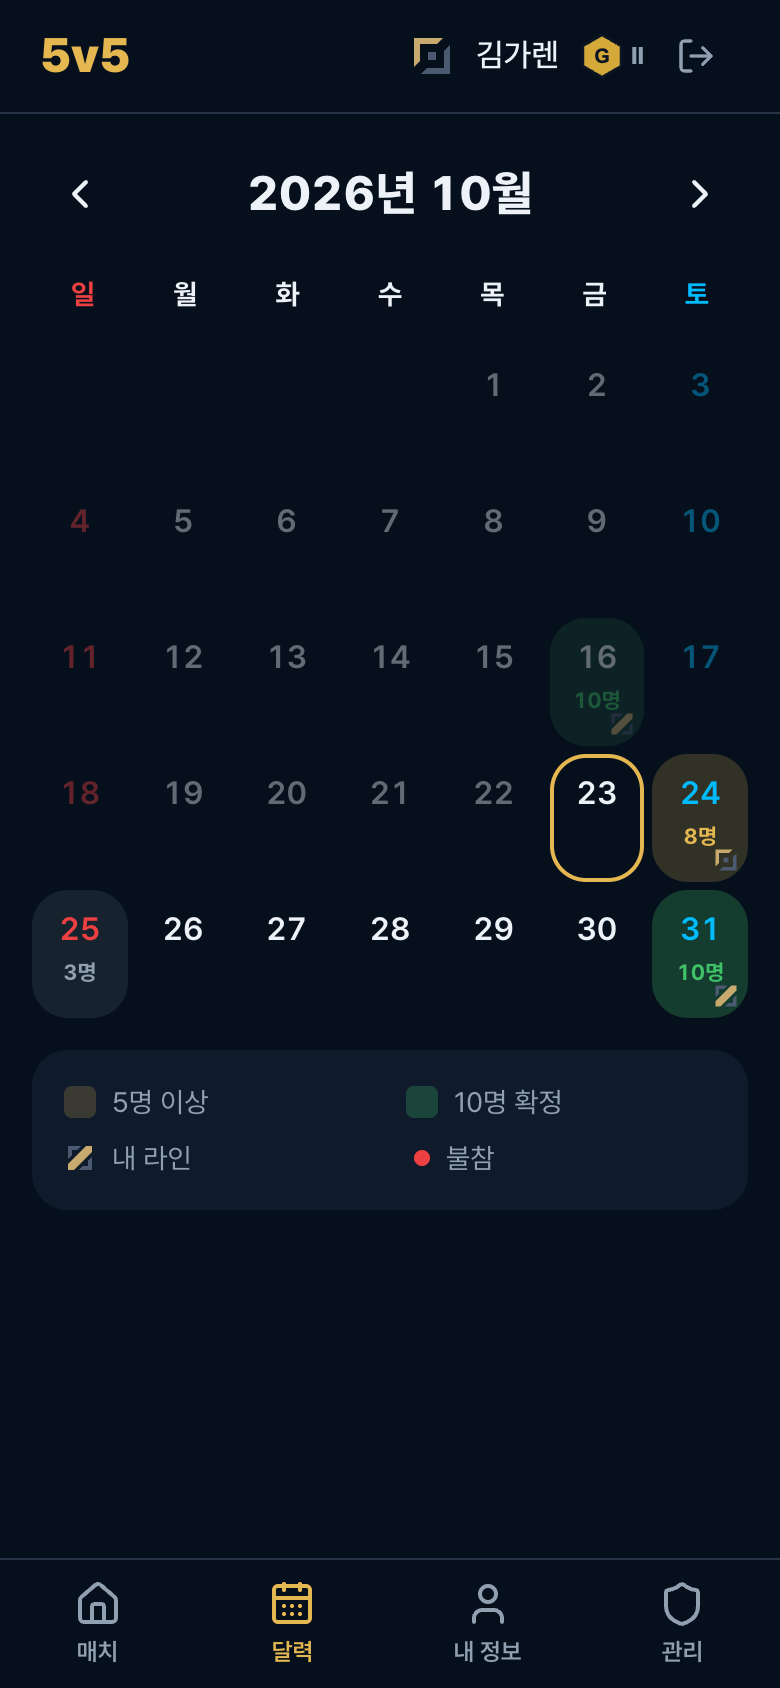
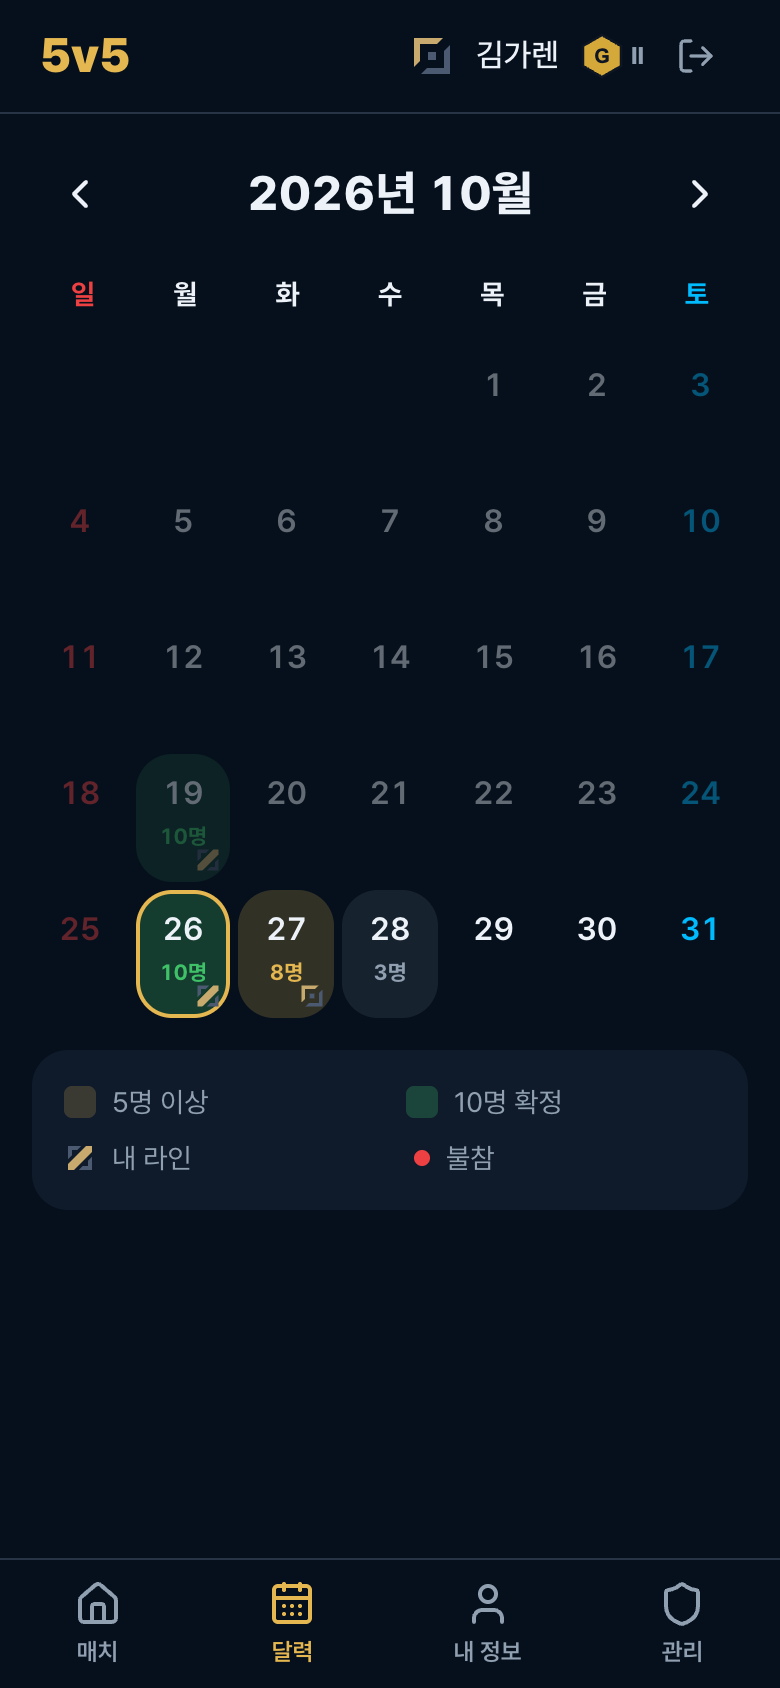
팀 표시를 블루/레드 → 1팀/2팀으로 변경, README 스크린샷 갱신
- 화면 표시만 변경 (DB 값은 blue = 1팀, red = 2팀 그대로)
- README 스크린샷에 매치 종료, 결과 투표/댓글 화면 추가

diff --git a/src/lib/repo/memory.ts b/src/lib/repo/memory.ts
@@ -94,7 +94,7 @@ function seed(): Store {
     { play_date: addDays(today, 1), match_format: "3판 2선승제", stake: "진 팀이 치킨 쏘기", updated_by: users[1].id, updated_at: now },
   ];
 
-  // 지난 매치 종료 처리: 라인별 첫 번째 = 블루, 두 번째 = 레드, 블루 승
+  // 지난 매치 종료 처리: 라인별 첫 번째 = 1팀(blue), 두 번째 = 2팀(red), 1팀 승
   const lastWeek = addDays(today, -7);
   const results: MatchResultRow[] = [{ play_date: lastWeek, winner: "blue", finished_by: users[0].id }];
   const players: PlayerRow[] = ten.map(([i], n) => ({
@@ -102,9 +102,9 @@ function seed(): Store {
     user_id: users[i].id,
     team: n % 2 === 0 ? "blue" : "red",
   }));
-  // 블루(승) = 서말파·조리신·박아리·이징크스·최쓰레쉬 / 레드(패) = 정다리우스·한니달리·김가렌·윤이즈·강룰루
+  // 1팀(승) = 서말파·조리신·박아리·이징크스·최쓰레쉬 / 2팀(패) = 정다리우스·한니달리·김가렌·윤이즈·강룰루
 
-  // 지난 매치 투표 (MVP 는 블루에서, 범인은 레드에서)
+  // 지난 매치 투표 (MVP 는 1팀에서, 범인은 2팀에서)
   const vote = (voter: number, kind: VoteKind, target: number): VoteRow => ({
     play_date: addDays(today, -7),
     voter_id: users[voter].id,

diff --git a/src/app/actions/results.ts b/src/app/actions/results.ts
@@ -53,7 +53,7 @@ export async function finishMatch(input: {
   const blue = players.filter((p) => p.team === "blue").length;
   const red = players.filter((p) => p.team === "red").length;
   if (blue !== TEAM_SIZE || red !== TEAM_SIZE) {
-    return { ok: false, error: `블루 ${TEAM_SIZE}명, 레드 ${TEAM_SIZE}명을 정해 주세요. (지금 ${blue}:${red})` };
+    return { ok: false, error: `1팀 ${TEAM_SIZE}명, 2팀 ${TEAM_SIZE}명을 정해 주세요. (지금 ${blue}:${red})` };
   }
 
   await repo.finishMatch({ play_date: input.date, winner: input.winner, finished_by: me.id, players });

diff --git a/src/lib/constants.ts b/src/lib/constants.ts
@@ -64,7 +64,8 @@ export const VOTE_LABEL = { mvp: "MVP", blame: "범인" } as const;
 export const MAX_COMMENT_LENGTH = 300;
 /** 관리자가 만든 계정/초기화한 PIN. 첫 로그인 때 재설정해야 하고, 새 PIN 으로는 쓸 수 없다 */
 export const INITIAL_PIN = "0000";
-export const TEAM_LABEL = { blue: "블루", red: "레드" } as const;
+/** DB 값은 blue/red 로 저장하고, 화면에는 1팀/2팀으로 표시한다 */
+export const TEAM_LABEL = { blue: "1팀", red: "2팀" } as const;
 /** 매치당 스크린샷 최대 개수 */
 export const MAX_SCREENSHOTS = 10;
 

diff --git a/src/components/match/finish-sheet.tsx b/src/components/match/finish-sheet.tsx
@@ -26,7 +26,7 @@ export const TEAM_STYLE: Record<Team, { on: string; text: string }> = {
   red: { on: "border-rose-400 bg-rose-400/15 text-rose-400", text: "text-rose-400" },
 };
 
-/** 라인별로 첫 번째 = 블루, 두 번째 = 레드 로 미리 채워 둔다 (관리자가 수정) */
+/** 라인별로 첫 번째 = 1팀, 두 번째 = 2팀 으로 미리 채워 둔다 (관리자가 수정) */
 function autoAssign(participants: Participant[]): Record<string, Team> {
   const teams: Record<string, Team> = {};
   for (const lane of LANES) {

diff --git a/README.md b/README.md
@@ -2,9 +2,11 @@
 
 주말 롤 5대5 내전 일정을 잡는 모바일 웹앱.
 
-| 로그인 | 매치 | 달력 | 일정 등록 |
-| :---: | :---: | :---: | :---: |
-| <img src="docs/screenshots/login.png" width="200"> | <img src="docs/screenshots/match.png" width="200"> | <img src="docs/screenshots/calendar.png" width="200"> | <img src="docs/screenshots/sheet.png" width="200"> |
+| 로그인 | 매치 | 달력 |
+| :---: | :---: | :---: |
+| <img src="docs/screenshots/login.png" width="220"> | <img src="docs/screenshots/match.png" width="220"> | <img src="docs/screenshots/calendar.png" width="220"> |
+| **일정 등록** | **매치 종료 (관리자)** | **결과 투표 · 댓글** |
+| <img src="docs/screenshots/sheet.png" width="220"> | <img src="docs/screenshots/finish.png" width="220"> | <img src="docs/screenshots/results.png" width="220"> |
 
 ## 기능
 
@@ -13,7 +15,7 @@
 - **프로필**: 티어와 디비전(I~IV)을 고르고, 가능한 라인은 여러 개 선택할 수 있습니다.
 - **달력**: 날짜를 누르면 참여 또는 불참과 라인 1개를 등록합니다.
 - **매치 카드**: 5명 이상 모인 날에 생깁니다. N/10 게이지와 라인별 인원이 보이고, 방식과 판돈은 누구나 수정할 수 있습니다.
-- **매치 종료**: 10명이 모인 매치를 관리자가 종료하면서 블루/레드 팀과 승리팀을 입력합니다.
+- **매치 종료**: 10명이 모인 매치를 관리자가 종료하면서 1팀/2팀 배정과 승리팀을 입력합니다.
 - **경기 결과**: 종료되면 이긴 팀에서 MVP, 진 팀에서 범인을 익명으로 투표하고, 댓글과 결과 스크린샷을 남길 수 있습니다.
 - **이전 매치**: 지난 매치는 메인 하단의 `이전 매치 보기`에서 볼 수 있습니다.
 - **관리자**: 멤버, 일정, 카드를 모두 수정하거나 삭제할 수 있습니다.

diff --git a/docs/DEPLOY.md b/docs/DEPLOY.md
@@ -110,7 +110,7 @@
 6. **매치 카드:** **매치** 탭에 오늘 카드가 `10/10`, **확정**으로 보이면 성공입니다.
 7. **세팅:** 카드의 **수정**에서 방식과 판돈을 저장 → "설정: 본인 닉네임"이 표시되는지 확인합니다.
 8. **매치 종료** (관리자)
-   - 카드의 **종료** 버튼 → 블루/레드가 5:5로 채워졌는지 확인하고, **블루 승** 또는 **레드 승**을 고른 뒤 **종료하고 투표 열기**를 누릅니다.
+   - 카드의 **종료** 버튼 → 1팀/2팀이 5:5로 채워졌는지 확인하고, **1팀 승** 또는 **2팀 승**을 고른 뒤 **종료하고 투표 열기**를 누릅니다.
    - 카드에 **종료** 배지와 "○○ 승리"가 뜨고, 아래에 **결과**가 열리면 성공입니다.
 9. **결과**
    - **MVP**에는 이긴 팀만, **범인**에는 진 팀만 후보로 나오는지 확인하고 한 명씩 눌러 봅니다.
@@ -148,7 +148,7 @@ https://5v5-xxxx.vercel.app
 ## 경기 날 관리자가 할 일
 
 1. 10명이 모여 경기가 끝나면, 그날 카드의 **종료**를 누릅니다.
-2. 실제 팀대로 블루/레드를 맞추고 승리팀을 골라 **종료하고 투표 열기**를 누릅니다.
+2. 실제 팀대로 1팀/2팀을 맞추고 승리팀을 골라 **종료하고 투표 열기**를 누릅니다.
 3. 그때부터 경기한 10명이 MVP(이긴 팀)와 범인(진 팀)을 투표하고, 누구나 댓글과 스크린샷을 남길 수 있습니다.
 4. 팀이나 승패를 잘못 넣었다면 결과 맨 아래 **종료 취소**를 누른 뒤 다시 종료하세요. 이때 투표는 초기화되고, 댓글과 사진은 남습니다.
 

diff --git a/docs/NOTES.md b/docs/NOTES.md
@@ -33,7 +33,7 @@
 - **날짜 기준은 한국 시간(KST)입니다.** '오늘', '지난 매치', '경기 당일'을 모두 KST로 판단합니다.
 - **매치 카드:** 참여자가 5명 이상인 날에 생기고, 10명이 모이면 "확정"으로 표시됩니다. 10명을 넘는 인원은 "대기"로 표시됩니다.
 - **매치 종료:** 참여자가 10명 이상이고 경기 당일(또는 그 이후)일 때 관리자에게 **종료** 버튼이 보입니다.
-  - 종료할 때 블루 5명, 레드 5명, 승리팀을 정합니다. 10명을 넘는 인원은 대기로 남습니다.
+  - 종료할 때 1팀 5명, 2팀 5명, 승리팀을 정합니다. 10명을 넘는 인원은 대기로 남습니다.
   - 종료된 날짜는 일반 멤버가 일정을 바꿀 수 없습니다(관리자는 가능).
   - **종료 취소**를 하면 팀, 승패, 투표가 지워지고 댓글과 사진은 남습니다.
 - **결과(투표, 댓글, 스크린샷):** 관리자가 종료한 뒤에 열립니다.
